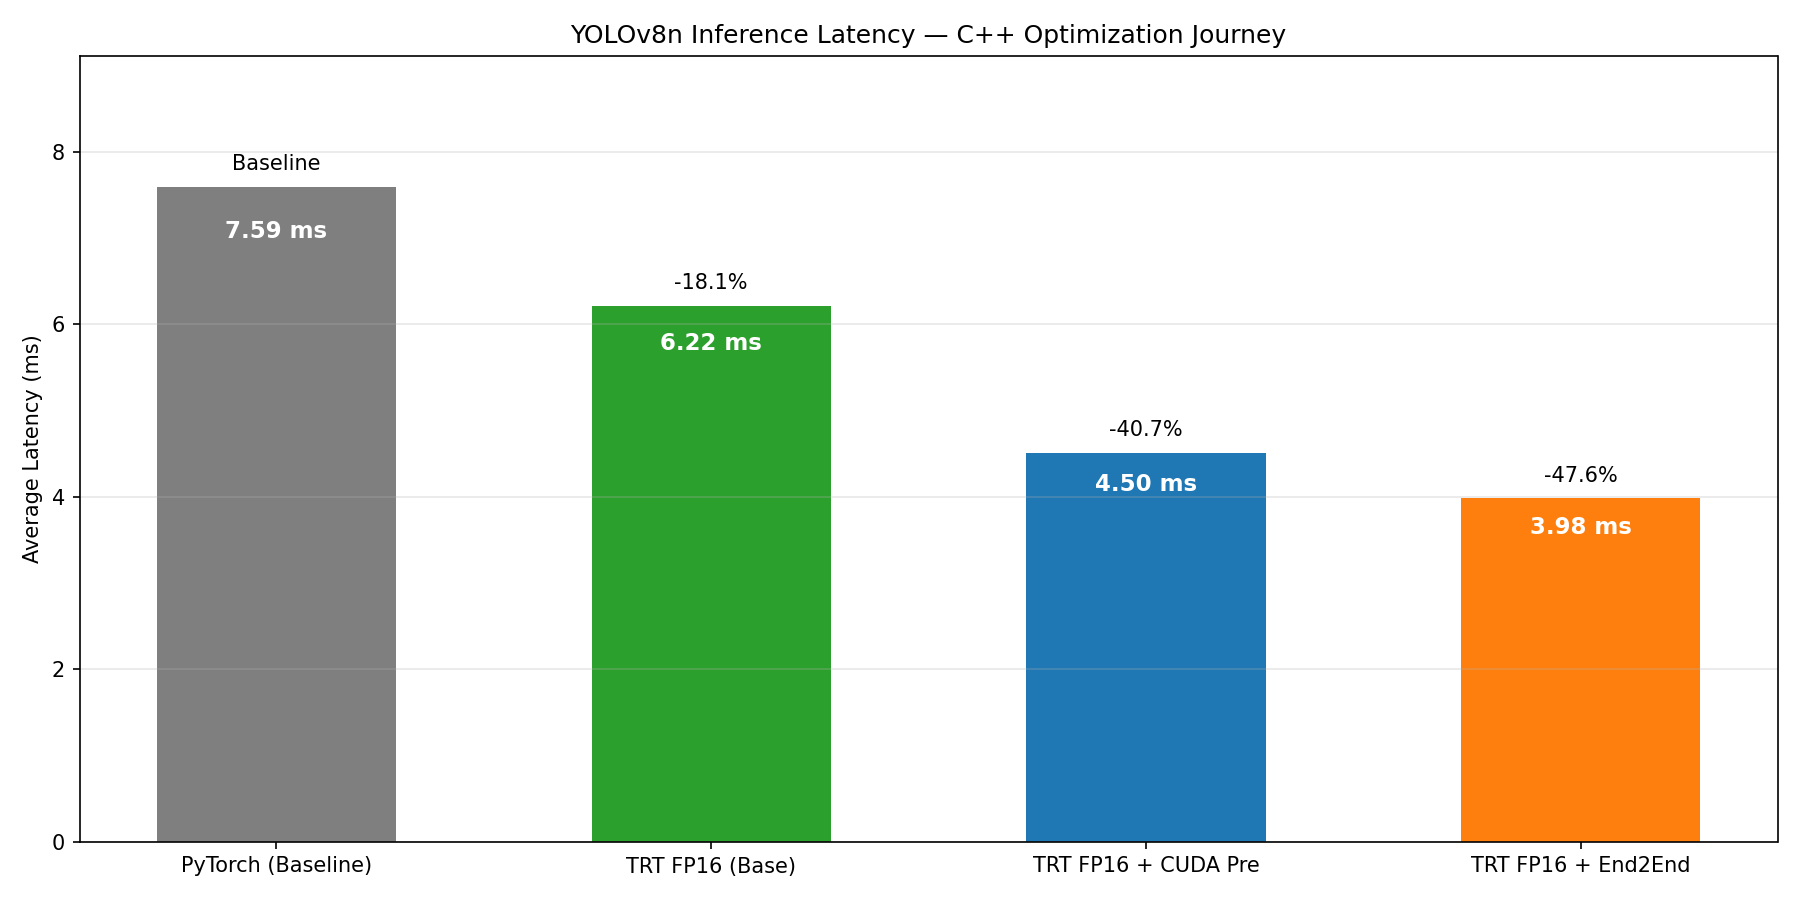
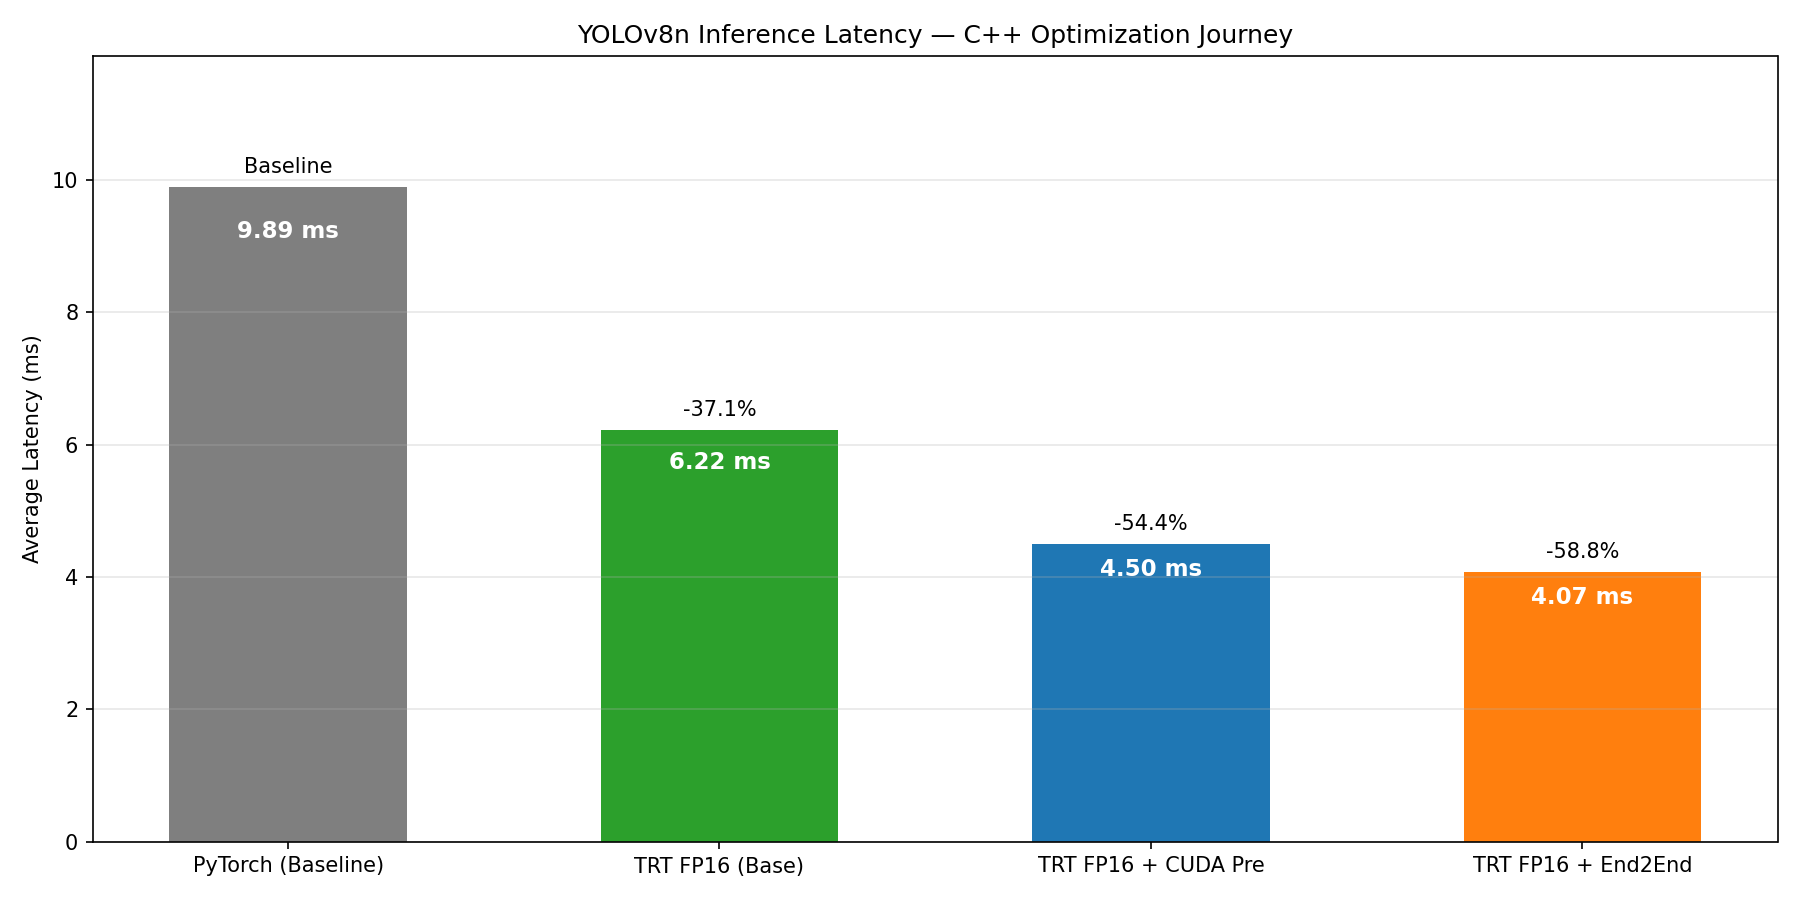
docs: 统一性能数据至最新实测值（4.07ms），同步简历与README

diff --git a/README.md b/README.md
@@ -5,7 +5,7 @@ SPDX-License-Identifier: MIT
 文件：README.md
 功能：项目说明文档
 作者：FutureDriver
-日期：2026-05-27
+日期：2026-06-17
 ============================================================ -->
 
 # YOLOv8 TensorRT C++ 高性能部署 Demo
@@ -16,20 +16,24 @@ SPDX-License-Identifier: MIT
 
 | 框架 | 平均延迟 | P95 延迟 | 吞吐量 (FPS) | 相对 PyTorch 提升 |
 |------|----------|----------|--------------|-------------------|
-| Python PyTorch (Baseline) | 7.59 ms | 8.51 ms | 131.7 | — |
-| C++ TensorRT FP16 (初始) | 6.22 ms | 6.94 ms | 160.9 | -18.0% |
-| C++ TensorRT + CUDA 预处理 | 4.50 ms | 5.24 ms | 222.0 | -40.7% |
-| **C++ TensorRT + 端到端检测** | **3.98 ms** | **4.42 ms** | **251.2** | **-47.6%** |
+| Python PyTorch (Baseline) | 9.89 ms | - | 101.1 | — |
+| Python ONNX Runtime | 6.40 ms | - | 156.3 | -35.3% |
+| C++ TensorRT FP16 (初始) | 6.22 ms | 6.94 ms | 160.9 | -37.1% |
+| C++ TensorRT + CUDA 预处理 | 4.50 ms | 5.24 ms | 222.0 | -54.5% |
+| **C++ TensorRT + 端到端检测** | **4.07 ms** | **5.83 ms** | **245.4** | **-58.8%** |
+
 
 ![性能对比图](results/performance_chart.png)
 
-> **阶段耗时分解**（Profile 100 次平均，典型值）：
-> - 预处理 (GPU)：1.28 ms
-> - 推理 (GPU，含 NMS)：2.92 ms
-> - 后处理 (CPU)：0.045 ms
-> - **1000 次基准平均总延迟：3.98 ms**（相对 PyTorch 基线降低 **47.6%**）
+> **阶段耗时分解**（Profile 100次平均，最近一次实测）：
+> - 预处理 (GPU)：1.65 ms
+> - 推理 (GPU，含NMS)：2.78 ms
+> - 后处理 (CPU)：0.053 ms
+> - **1000次基准平均总延迟：4.07 ms**（相对PyTorch基线9.89ms降低 **58.8%**）
 >
-> NMS 已移入 TensorRT 引擎，后处理仅需简单结果拷贝。下一步可通过 CUDA Graph 或 INT8 量化进一步降低推理延迟。
+> NMS已移入TensorRT引擎，后处理仅需简单结果拷贝。
+> 因GPU温度与系统负载影响，每次运行数据有正常波动（历史最优3.98ms）。
+> 下一步可通过CUDA Graph或INT8量化进一步降低推理延迟。
 
 ## 🚀 快速开始
 
@@ -72,7 +76,7 @@ make -j$(nproc)
 - **RAII 资源管理**：所有 CUDA 资源（Runtime、Engine、Context、CUDA Stream、GPU 显存）均用 `std::unique_ptr` + 自定义 Deleter 封装，零裸指针，确保异常安全。
 - **移动语义**：推理类禁止拷贝，实现 `noexcept` 移动构造函数/赋值运算符。
 - **异步 CUDA 流**：预处理、推理、后处理在独立 CUDA Stream 上异步执行，通过 `cudaStreamSynchronize` 精确控制同步点。
-- **GPU 预处理**：使用 NPP 库进行图像 resize，自定义 CUDA kernel 完成 BGR→RGB、归一化、HWC→CHW 转换，预处理仅 1.3–1.5 ms。
+- **GPU 预处理**：使用 NPP 库进行图像 resize，自定义 CUDA kernel 完成 BGR→RGB、归一化、HWC→CHW 转换，预处理仅 1.6 ms。
 - **FP16 量化**：TensorRT 构建时开启 FP16 模式，大幅降低显存占用与推理延迟。
 - **端到端检测**：通过 `initLibNvInferPlugins` 注册 EfficientNMS 插件，将 NMS 合并进 TensorRT 引擎，后处理降至 **0.045 ms**。
 - **编译期优化**：`constexpr`、`std::string_view`、C++17 `if` 初始化等现代特性。
@@ -107,8 +111,8 @@ make -j$(nproc)
 ```
 
 ## 📝 优化路线图
-- [✓] **预处理 CUDA 化**：使用 NPP resize + CUDA kernel 完成缩放与颜色转换，预处理延迟从 2.6ms 降至 1.3ms。
-- [✓] **后处理 GPU 化**：通过 EfficientNMS 插件实现端到端检测，后处理从 2.3ms 降至 0.045ms。
+- [✓] **预处理 CUDA 化**：使用 NPP resize + CUDA kernel 完成缩放与颜色转换，预处理延迟从2.6ms降至1.6ms。
+- [✓] **后处理 GPU 化**：通过 EfficientNMS 插件实现端到端检测，后处理从2.3ms降至0.053ms。
 - [~] **INT8 量化**：校准器与构建逻辑已完成，因 WSL2 环境限制待原生 Linux / Jetson 上验证。
 - [ ] **流水线化**：多线程分离 I/O 与推理，提升连续帧吞吐量。
 